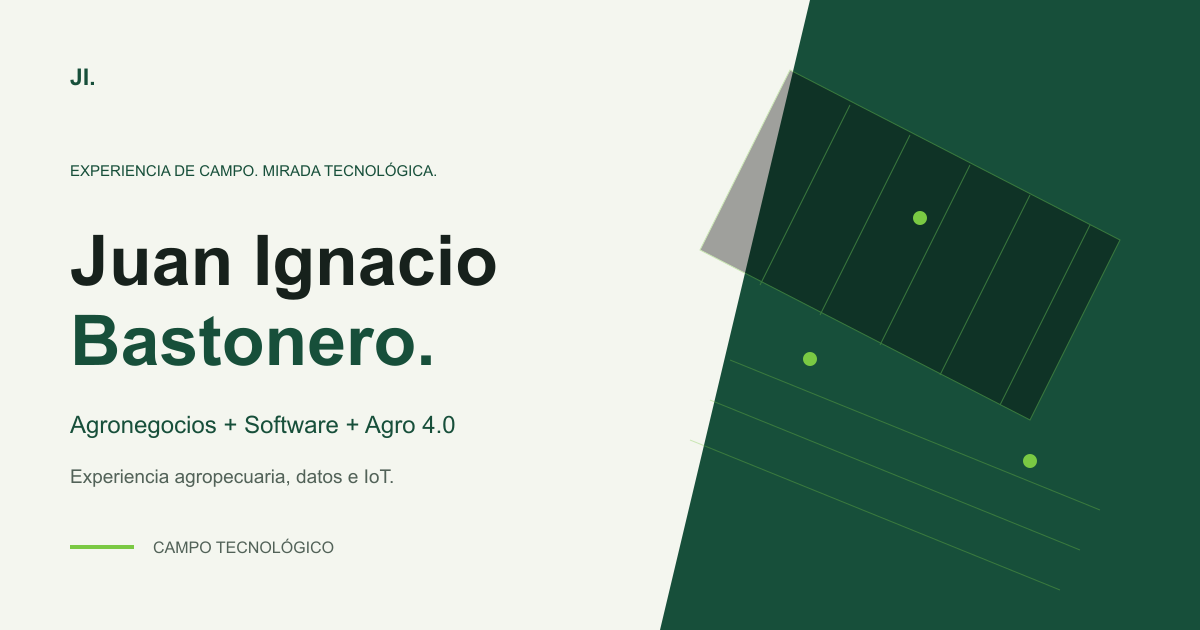
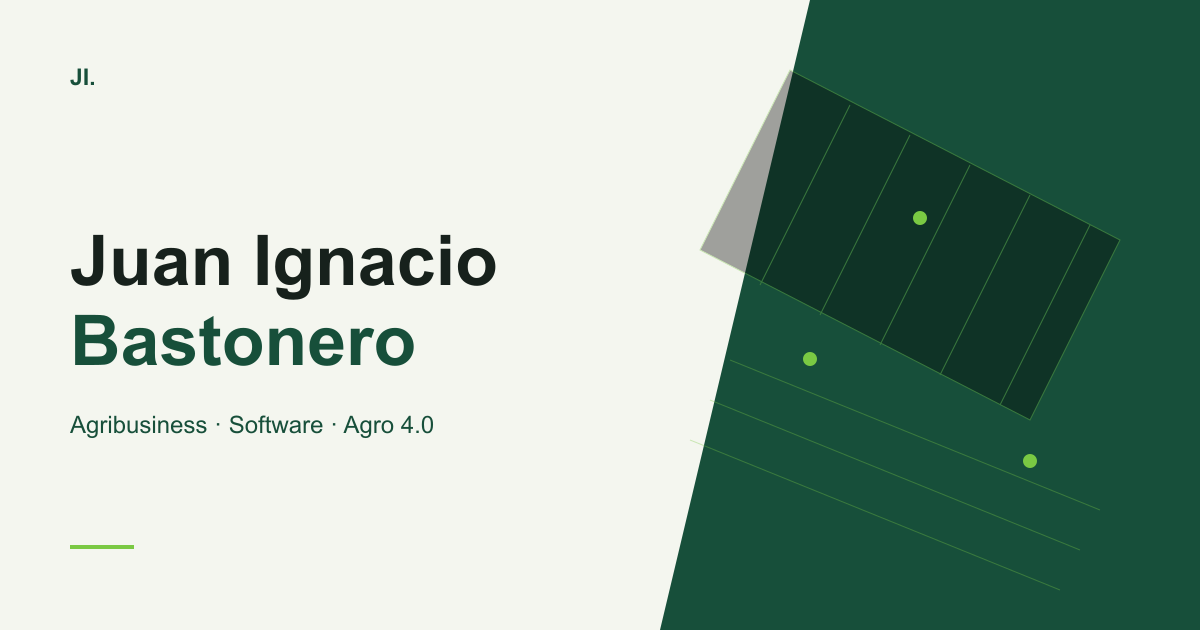
feat: agregar localización italiana al portfolio

diff --git a/JuanIgnacio.Portfolio.Web/wwwroot/portfolio.js b/JuanIgnacio.Portfolio.Web/wwwroot/portfolio.js
@@ -3,9 +3,17 @@ window.portfolioLanguage = {
     get() {
         try { return localStorage.getItem('portfolio.language'); } catch { return null; }
     },
-    set(language) {
+    set(language, messages) {
         document.documentElement.lang = language;
         try { localStorage.setItem('portfolio.language', language); } catch { /* Private browsing. */ }
+        if (messages) {
+            const error = document.querySelector('[data-portfolio-error]');
+            const reload = document.querySelector('[data-portfolio-reload]');
+            const dismiss = document.querySelector('[data-portfolio-dismiss]');
+            if (error) error.textContent = messages.error;
+            if (reload) reload.textContent = messages.reload;
+            if (dismiss) dismiss.setAttribute('aria-label', messages.dismiss);
+        }
     }
 };
 

diff --git a/JuanIgnacio.Portfolio.Web/Services/PortfolioContentService.cs b/JuanIgnacio.Portfolio.Web/Services/PortfolioContentService.cs
@@ -5,8 +5,9 @@ namespace JuanIgnacio.Portfolio.Web.Services;
 // Copy is centralised here; technical identifiers are shared between languages.
 public sealed class PortfolioContentService
 {
-    public IReadOnlyList<LanguageOption> Languages { get; } = [new("es", "ES", "Español"), new("en", "EN", "English"), new("fr", "FR", "Français")];
-    public PortfolioContent Get(string code) => code switch { "en" => English, "fr" => French, _ => Spanish };
+    public IReadOnlyList<LanguageOption> Languages { get; } =
+        [new("es", "ES", "Español"), new("it", "IT", "Italiano"), new("en", "EN", "English"), new("fr", "FR", "Français")];
+    public PortfolioContent Get(string code) => code switch { "it" => Italian, "en" => English, "fr" => French, _ => Spanish };
     private static ProjectItem Cattle(string description, string role, string status, string next) => new("CattleCat", description, "", ["C#", "WPF", "Entity Framework 6", "SQL Server"], role, status, next, "", RepositoryUrl: "https://github.com/juanignacio87/CattleCat", Stage: ProjectStage.Published);
 
     private static PortfolioContent Spanish => new("es",
@@ -31,12 +32,128 @@ public sealed class PortfolioContentService
         "Conversemos sobre el próximo desafío.", new("Busco oportunidades en Agrotech y equipos que conecten conocimiento del campo con software, datos y automatización. También estoy abierto al networking y a conversaciones técnicas en EIMA, Bologna.", "Nombre", "Correo", "Mensaje", "Enviar", "Correo", "LinkedIn", "GitHub", "Descargar CV", "Contacto pendiente de configuración."),
         "Juan Ignacio Bastonero · Agronegocios + Software + Agro 4.0")
     {
+        Messages = new("No se pudo completar la solicitud", "Ocurrió un error. Recargá la página para volver a intentarlo.", "Recargar", "Cerrar aviso", "ID de la solicitud"),
         Visual = new("Inicio", "Saltar al contenido", "Navegación principal", "Idioma", "Abrir navegación", "Campo tecnológico", "DEL LOTE AL DATO", "Software / Sensores / Decisiones", "PERFIL HÍBRIDO", "PROYECTO DESTACADO", "Otras líneas de trabajo", "Por configurar", "CV pendiente", "Capturas reales pendientes. No se muestran imágenes simuladas de la aplicación.", "Idiomas", "CONECTEMOS", "Una perspectiva internacional. Un propósito conectado al campo."),
         Featured = new("Inventario ganadero, con lógica de campo.", ["Gestión de establecimientos, lotes, usuarios y movimientos ganaderos.", "Stock por establecimiento, lote y categoría.", "Búsqueda y exportación CSV.", "Validación para impedir operaciones que generen stock negativo.", "Edición y desactivación lógica de registros."], "La aplicación, por dentro")
     };
 
+    private static PortfolioContent Italian => Spanish with
+    {
+        LanguageCode = "it",
+        Seo = new(
+            "Juan Ignacio Bastonero | Agribusiness, sviluppo software e Agricoltura 4.0",
+            "Esperienza nelle aziende agricole, sviluppo software, dati e IoT. Il portfolio Agrotech di Juan Ignacio Bastonero: CattleCat e tecnologie applicate all'agricoltura.",
+            "Agrotech, Agricoltura 4.0, agribusiness, sviluppo software, C#, IoT, agricoltura di precisione",
+            "Juan Ignacio Bastonero",
+            "Juan Ignacio Bastonero · Agricoltura e tecnologia",
+            "agribusiness, sviluppo software e Agricoltura 4.0. L'esperienza sul campo incontra la tecnologia."),
+        Nav = new("Profilo", "Obiettivo", "Ambiti", "Progetti", "Esperienza", "Tecnologie", "CV", "Contatti"),
+        Hero = new(
+            "Juan Ignacio Bastonero",
+            "Agribusiness + Sviluppo software + Agricoltura 4.0",
+            "ESPERIENZA SUL CAMPO. APPROCCIO TECNOLOGICO.",
+            "Unisco l'esperienza pratica nelle aziende agricole a software, dati e IoT per affrontare le esigenze concrete del settore.",
+            ["Agribusiness", "Software", "Dati e IoT"],
+            new("Scopri i progetti", "Scarica il CV", "Contattami")),
+        AboutTitle = "Dal campo al codice.",
+        AboutText = "Sono un tecnico specializzato in agribusiness, con una formazione in gestione agroalimentare e attualmente iscritto al Master Agro 4.0. L'esperienza pratica nelle aziende agricole mi aiuta a comprendere i processi e le esigenze operative prima di scegliere la tecnologia. Oggi sto orientando il mio percorso professionale verso l'Agrotech, integrando questa conoscenza del settore con lo sviluppo software, i dati e i sistemi connessi.",
+        ProfessionalGoal = new(
+            "Obiettivo professionale",
+            "Cerco opportunità in team che sviluppano tecnologie utili al settore agroalimentare: software gestionali, IoT agricolo, agricoltura di precisione e automazione. Sono interessato a opportunità lavorative, scambi tecnici e collaborazioni internazionali.",
+            ["Agrotech", "Software .NET", "IoT agricolo"]),
+        InterestsTitle = "Ambiti di interesse",
+        Interests = [],
+        ProjectsTitle = "Tecnologia con solide radici nel campo.",
+        ProjectsIntro = "Progetti personali e ambiti di lavoro che collegano gestione, sviluppo software e agricoltura di precisione.",
+        ProjectLabels = new("La sfida", "Tecnologie", "Il mio contributo", "Stato", "Prossimo passo", "Scopri il progetto", "Vedi il repository", "Materiale visivo da aggiungere"),
+        Projects =
+        [
+            Cattle(
+                "Un'applicazione desktop per la gestione degli allevamenti bovini, delle consistenze e dei movimenti, con regole operative chiare.",
+                "Sviluppo dell'applicazione, modello dei dati e logica di gestione delle consistenze.",
+                "Operativo",
+                "Documentare i casi d'uso e pubblicare schermate reali.") with
+            {
+                MoreLabel = "Dettagli",
+                ImageAlt = "CattleCat: applicazione per la gestione delle consistenze e dei movimenti bovini"
+            },
+            new("RegionalLeagueApp",
+                "Piattaforma web per organizzare campionati regionali, squadre, partite e risultati.",
+                "Riunire le informazioni delle competizioni in un unico sistema.",
+                ["C#", "Blazor", "PostgreSQL", "Docker"],
+                "Sviluppo software e modellazione del dominio.",
+                "In sviluppo",
+                "Validare i flussi di gestione e completare la documentazione.",
+                "Dettagli",
+                ImageAlt: "RegionalLeagueApp: piattaforma per la gestione dei campionati regionali",
+                Stage: ProjectStage.InDevelopment),
+            new("NodoAgrícola",
+                "Un progetto allo studio per collegare i sensori di campo all'archiviazione e alla visualizzazione dei dati.",
+                "Raccogliere misurazioni utili direttamente sul campo.",
+                ["Raspberry Pi", "ESP32", "IoT", "Python"],
+                "Esplorazione dell'architettura e dei componenti.",
+                "Concettuale",
+                "Definire il primo caso d'uso e validare un nodo di misura.",
+                "Dettagli",
+                ImageAlt: "NodoAgrícola: progetto di monitoraggio con sensori agricoli"),
+            new("Telerilevamento e agricoltura di precisione",
+                "Lavori formativi su immagini satellitari, indici di vegetazione e analisi spaziale degli appezzamenti.",
+                "Interpretare la variabilità all'interno degli appezzamenti.",
+                ["Sentinel-2", "NDVI", "GIS", "Python"],
+                "Analisi e applicazione pratica delle competenze acquisite.",
+                "Progetto formativo",
+                "Selezionare e documentare un lavoro da pubblicare.",
+                "Dettagli",
+                ImageAlt: "Telerilevamento: analisi degli appezzamenti con immagini satellitari",
+                Stage: ProjectStage.Coursework),
+            new("Visione artificiale e salute bovina",
+                "Un'idea per esplorare l'uso delle immagini nell'osservazione sanitaria dei bovini. Non è uno strumento diagnostico.",
+                "Individuare segnali visivi da sottoporre a una valutazione professionale.",
+                ["Python", "Computer vision", "Machine learning"],
+                "Definizione del problema e valutazione della fattibilità.",
+                "Concettuale",
+                "Definire i dati, i criteri di validazione e la collaborazione veterinaria.",
+                "Dettagli",
+                ImageAlt: "Visione artificiale e salute bovina: progetto concettuale")
+        ],
+        ExperienceTitle = "Un percorso che unisce discipline diverse.",
+        Experience =
+        [
+            new("Tecnico specializzato in agribusiness", "Formazione in produzione, gestione e commercializzazione nel settore agricolo e zootecnico."),
+            new("Gestione agroalimentare", "Formazione universitaria sulle filiere agroalimentari, i processi e la qualità. Tesi ancora da completare."),
+            new("Esperienza pratica nelle aziende agricole", "Esperienza lavorativa in aziende agricole e partecipazione diretta alle attività operative quotidiane."),
+            new("Esperienza internazionale", "Adattamento a contesti diversi, comunicazione multilingue e assistenza ai clienti."),
+            new("Master Agro 4.0 · In corso", "Agricoltura di precisione, telerilevamento e digitalizzazione del settore agricolo."),
+            new("Sviluppo tecnologico · In corso", "Progetti personali con C#/.NET ed esplorazione di dati, IoT e automazione.")
+        ],
+        SkillsTitle = "Strumenti per connettere campo e tecnologia.",
+        SkillGroups =
+        [
+            new("Sviluppo software", ["C#", ".NET", "WPF", "Blazor", "Entity Framework", "LINQ"]),
+            new("Dati e infrastruttura", ["SQL Server", "PostgreSQL", "Python", "Docker"]),
+            new("Hardware connesso", ["Raspberry Pi", "ESP32", "IoT"]),
+            new("Agricoltura di precisione", ["Sentinel-2", "NDVI", "GIS"]),
+            new("Lingue", ["Spagnolo · Madrelingua", "Italiano · Fluente", "Francese · B2–C1", "Inglese · C1"])
+        ],
+        CvDownload = new("CV", "Formazione, esperienza e progetti in un unico documento.", "Scarica il CV", "CV in PDF in attesa di pubblicazione.", []),
+        AvailableFor = new("Disponibile per", "Una prospettiva agricola all'interno di un team tecnologico.", ["Agrotech", "Backend .NET", "IoT", "Automazione", "Collaborazione tecnica"]),
+        ContactTitle = "Parliamo della prossima sfida.",
+        Contact = new("Cerco opportunità in Agrotech e team che uniscano la conoscenza del settore agricolo a software, dati e automazione. Sono aperto anche a incontri professionali e scambi tecnici in occasione di EIMA a Bologna.", "Nome", "E-mail", "Messaggio", "Invia", "E-mail", "LinkedIn", "GitHub", "Scarica il CV", "Contatti da configurare."),
+        FooterText = "Juan Ignacio Bastonero · Agribusiness + Software + Agricoltura 4.0",
+        Visual = new("Inizio", "Vai al contenuto", "Navigazione principale", "Lingua", "Apri il menu", "Agricoltura e tecnologia", "DALL'APPEZZAMENTO AL DATO", "Software / Sensori / Decisioni", "UN PROFILO IBRIDO", "PROGETTO IN EVIDENZA", "Altri ambiti di lavoro", "Da configurare", "CV da aggiungere", "Schermate reali da aggiungere. Non vengono mostrate immagini simulate dell'applicazione.", "Lingue", "RESTIAMO IN CONTATTO", "Una prospettiva internazionale. Un obiettivo radicato nel mondo agricolo."),
+        Featured = new("Gestione delle consistenze bovine, progettata sulle esigenze delle aziende agricole.",
+            ["Gestione di aziende agricole, appezzamenti, utenti e movimenti dei bovini.",
+             "Consistenze per azienda agricola, appezzamento e categoria.",
+             "Ricerca ed esportazione CSV.",
+             "Controlli per impedire operazioni che generino consistenze negative.",
+             "Modifica e disattivazione logica delle registrazioni."],
+            "Uno sguardo all'applicazione"),
+        Messages = new("Impossibile completare la richiesta", "Si è verificato un errore. Ricarica la pagina per riprovare.", "Ricarica", "Chiudi l'avviso", "ID della richiesta")
+    };
+
     private static PortfolioContent English => Spanish with
     {
+        Messages = new("The request could not be completed", "An error occurred. Reload the page to try again.", "Reload", "Dismiss notice", "Request ID"),
         LanguageCode = "en", Seo = new("Juan Ignacio Bastonero | Agribusiness, software & Agriculture 4.0", "Connecting hands-on farming experience with software, data and IoT. Juan Ignacio Bastonero's portfolio: CattleCat and technology for agriculture.", "Agrotech, Agriculture 4.0, C#, IoT", "Juan Ignacio Bastonero", "Juan Ignacio Bastonero · Connected agriculture", "Agribusiness, software development and Agriculture 4.0. Field experience meets technology."),
         Nav = new("Profile", "Goal", "Focus", "Projects", "Experience", "Technologies", "CV", "Contact"),
         Hero = new("Juan Ignacio Bastonero", "Agribusiness + Software development + Agriculture 4.0", "FIELD EXPERIENCE. A TECHNOLOGY MINDSET.", "I connect hands-on farming experience with software, data and IoT to tackle real agricultural challenges.", ["Agribusiness", "Software", "Data & IoT"], new("View projects", "Download CV", "Contact")),
@@ -55,6 +172,7 @@ public sealed class PortfolioContentService
 
     private static PortfolioContent French => Spanish with
     {
+        Messages = new("La demande n'a pas pu être traitée", "Une erreur est survenue. Rechargez la page pour réessayer.", "Recharger", "Fermer le message", "Identifiant de la demande"),
         LanguageCode = "fr", Seo = new("Juan Ignacio Bastonero | Agribusiness, logiciel et Agriculture 4.0", "Relier l'expérience agricole de terrain au logiciel, aux données et à l'IoT. Portfolio de Juan Ignacio Bastonero : CattleCat et technologies pour l'agriculture.", "Agrotech, Agriculture 4.0, C#, IoT", "Juan Ignacio Bastonero", "Juan Ignacio Bastonero · Agriculture connectée", "Agribusiness, développement logiciel et Agriculture 4.0. Une expérience de terrain, une approche technologique."),
         Nav = new("Profil", "Objectif", "Domaines", "Projets", "Parcours", "Technologies", "CV", "Contact"),
         Hero = new("Juan Ignacio Bastonero", "Agribusiness + Développement logiciel + Agriculture 4.0", "L'EXPÉRIENCE DU TERRAIN. UNE APPROCHE TECHNOLOGIQUE.", "Je relie mon expérience pratique en agriculture au logiciel, aux données et à l'IoT pour répondre aux besoins concrets du terrain.", ["Agribusiness", "Logiciel", "Données et IoT"], new("Voir les projets", "Télécharger le CV", "Contacter")),

diff --git a/JuanIgnacio.Portfolio.Web/Models/PortfolioContent.cs b/JuanIgnacio.Portfolio.Web/Models/PortfolioContent.cs
@@ -118,6 +118,7 @@ public sealed record PortfolioContent(
 {
     public VisualContent Visual { get; init; } = default!;
     public FeaturedContent Featured { get; init; } = default!;
+    public InterfaceMessages Messages { get; init; } = default!;
 }
 
 public sealed record VisualContent(string Home, string Skip, string Navigation, string Languages,
@@ -126,3 +127,5 @@ public sealed record VisualContent(string Home, string Skip, string Navigation, 
     string LanguagesTitle, string ContactKicker, string FooterNote);
 
 public sealed record FeaturedContent(string Intro, IReadOnlyList<string> Features, string GalleryTitle);
+
+public sealed record InterfaceMessages(string ErrorTitle, string Error, string Reload, string Dismiss, string RequestId);

diff --git a/JuanIgnacio.Portfolio.Web/Models/SiteOptions.cs b/JuanIgnacio.Portfolio.Web/Models/SiteOptions.cs
@@ -27,5 +27,7 @@ public sealed class ProjectScreenshot
 {
     public string Url { get; set; } = string.Empty;
     public Dictionary<string, string> Alt { get; set; } = [];
-    public string GetAlt(string language) => Alt.GetValueOrDefault(language) ?? Alt.GetValueOrDefault("es") ?? "CattleCat";
+    public string GetAlt(string language) => Alt.TryGetValue(language, out var alt) && !string.IsNullOrWhiteSpace(alt)
+        ? alt
+        : "CattleCat";
 }

diff --git a/REDESIGN-NOTES.md b/REDESIGN-NOTES.md
@@ -5,7 +5,11 @@ No modifica CattleCat, RegionalLeagueApp ni las copias anteriores.
 
 ## Contenido
 
-Todos los textos ES/EN/FR estan en `Services/PortfolioContentService.cs`.
+Todos los textos ES/IT/EN/FR estan en `Services/PortfolioContentService.cs`.
+El selector sigue ese orden y recuerda la seleccion. Italiano incluye contenido,
+metadatos (`it_IT`), mensajes de error y accesibilidad. Se conservan los nombres
+CattleCat, RegionalLeagueApp y NodoAgrícola; los titulos descriptivos se localizan.
+No hay URLs separadas por idioma: el sitemap mantiene una sola entrada.
 Los niveles de idiomas corresponden a los datos proporcionados por el titular.
 No se inventaron fechas, instituciones, resultados de proyectos ni capturas.
 Confirmar los estados de los proyectos secundarios antes de publicar.
@@ -16,7 +20,7 @@ Los componentes anteriores que ya no se muestran se conservan para referencia.
 Completar `Portfolio__Email`, `Portfolio__LinkedInUrl`, `Portfolio__GitHubUrl`,
 `Portfolio__PublicUrl` y `Portfolio__CvUrl`, o sus equivalentes `PORTFOLIO_*`
 en Compose. No se creo ningun .env real.
-Los contactos vacios muestran un estado identificado, nunca enlaces ficticios.
+Los contactos vacios permanecen ocultos hasta configurarse, sin enlaces ficticios.
 El boton de CV dirige al aviso pendiente hasta configurar un archivo final.
 Guardar el PDF real en `wwwroot/cv/` y configurar la ruta relativa.
 El contacto usa enlaces directos, sin formulario visual que prometa un envio.
@@ -33,6 +37,7 @@ Configurar `Portfolio:CattleCatScreenshots` en appsettings o variables de entorn
     "Url": "images/projects/cattlecat/inventario.png",
     "Alt": {
       "es": "CattleCat: inventario por establecimiento y categoria",
+      "it": "CattleCat: consistenze per azienda agricola e categoria",
       "en": "CattleCat: inventory by farm and category",
       "fr": "CattleCat : stock par exploitation et categorie"
     }
@@ -41,10 +46,12 @@ Configurar `Portfolio:CattleCatScreenshots` en appsettings o variables de entorn
 ```
 
 No agregar esa entrada hasta que exista el archivo. Cada imagen se abre en tamaño
-completo; incluir textos alternativos en los tres idiomas. Quitar nombres de
+completo; incluir textos alternativos en los cuatro idiomas. Quitar nombres de
 usuarios, establecimientos, rutas de disco y datos productivos privados.
 En Docker puede configurarse `Portfolio__CattleCatScreenshots__0__Url` y
-`Portfolio__CattleCatScreenshots__0__Alt__es` (tambien `en` y `fr`).
+`Portfolio__CattleCatScreenshots__0__Alt__es` (tambien `it`, `en` y `fr`).
+Si falta un texto alternativo, se muestra el nombre CattleCat en lugar de
+mezclar una descripcion de otro idioma. Agregar siempre las cuatro traducciones.
 Los otros proyectos conservan soporte ImageUrl, ImageAlt, ProjectUrl y RepositoryUrl.
 
 ## Assets y SEO
@@ -55,7 +62,8 @@ de producto. No contiene marcas de terceros. Iconos Lucide (ISC), fuente
 Manrope (OFL), alojados localmente con sus licencias. No hay peticiones externas
 de fuentes o iconos al visitar la pagina.
 Open Graph usa `images/social-preview.png`: PNG para compatibilidad con redes.
-Su fuente editable es `images/social-preview-v2.svg`; el SVG anterior se conserva.
+Su fuente editable es `images/social-preview-v2.svg`; `social-preview.svg` conserva
+la misma version neutral: Juan Ignacio Bastonero / Agribusiness · Software · Agro 4.0.
 Configurar PublicUrl con el dominio HTTPS final, sin query ni fragmento.
 Canonical, robots y sitemap utilizan esa base. Sin PublicUrl se usa la URL local.
 
@@ -69,7 +77,7 @@ docker compose -f docker-compose.portfolio.yml --env-file JuanIgnacio.Portfolio.
 ```
 
 Antes de publicar: contacto real, CV PDF, capturas, confirmar proyectos y trayectoria,
-dominio/PublicUrl, HTTPS, Docker activo y comprobar ES/EN/FR en movil y escritorio.
+dominio/PublicUrl, HTTPS, Docker activo y comprobar ES/IT/EN/FR en movil y escritorio.
 No publicar telefono ni direccion personal. El idioma se recuerda en almacenamiento
 local opcional; no se realiza traduccion automatica.
 
